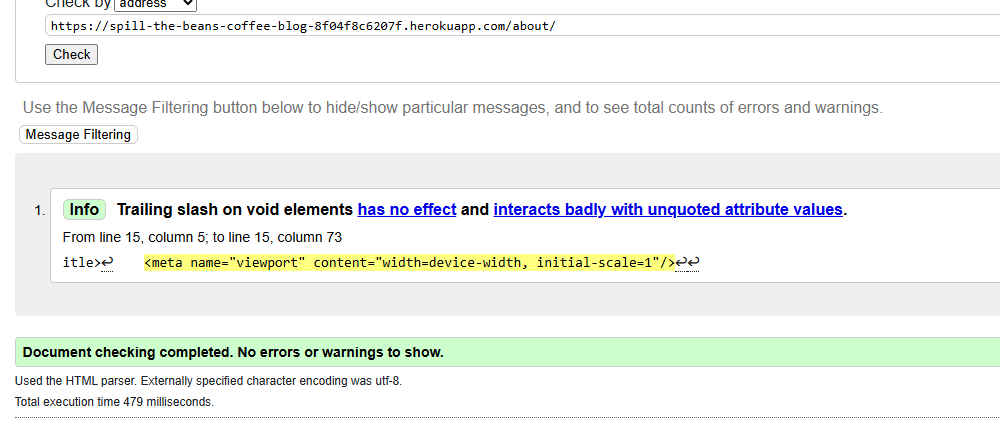
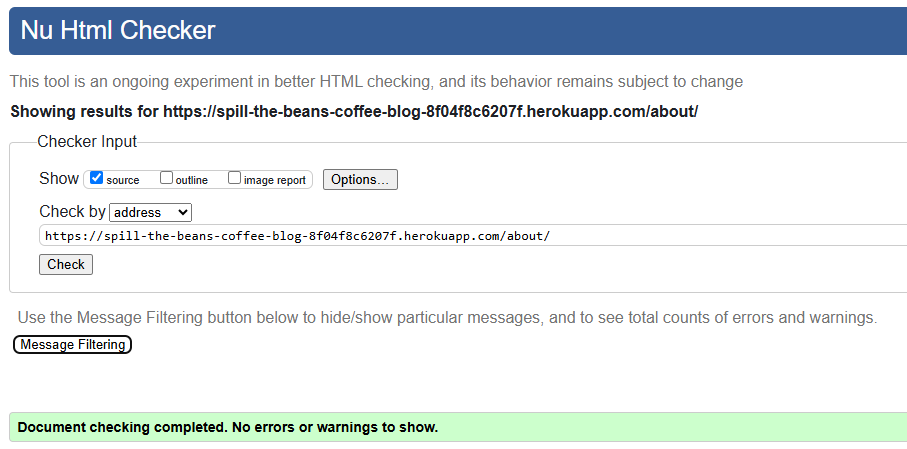
Re-do html validation; still error with signup page

diff --git a/TESTING.md b/TESTING.md
@@ -41,11 +41,11 @@ All outlined testing was done upon completion of this project. Please see Bugs f
 
 | Page | Status | Evidence |
 | :--- | :---: | :---: |
-| Home |   | [Home Page Validation](documentation/testing/validation/html/home.png) |
-| About |   | [About Page Validation](documentation/testing/validation/html/about.png) |
-| Register |   | [Register Page Validation](documentation/testing/validation/html/register.png) |
-| Login |   | [Login Page Validation](documentation/testing/validation/html/login.png) |
-| Terms of Use |   | [Custom Page Validation](documentation/testing/validation/html/terms-of-use.png) |
+| Home | :heavy_check_mark: | [Home Page Validation](documentation/testing/validation/html/home.PNG) |
+| About | :heavy_check_mark: | [About Page Validation](documentation/testing/validation/html/about.PNG) |
+| Register | :grey_exclamation: | [Register Page Validation](documentation/testing/validation/html/signup-errors.PNG
+| Login | :heavy_check_mark: | [Login Page Validation](documentation/testing/validation/html/login.PNG) |
+| Terms of Use | :heavy_check_mark: | [Terms Page Validation](documentation/testing/validation/html/terms.PNG) |
 
 
 ### CSS
